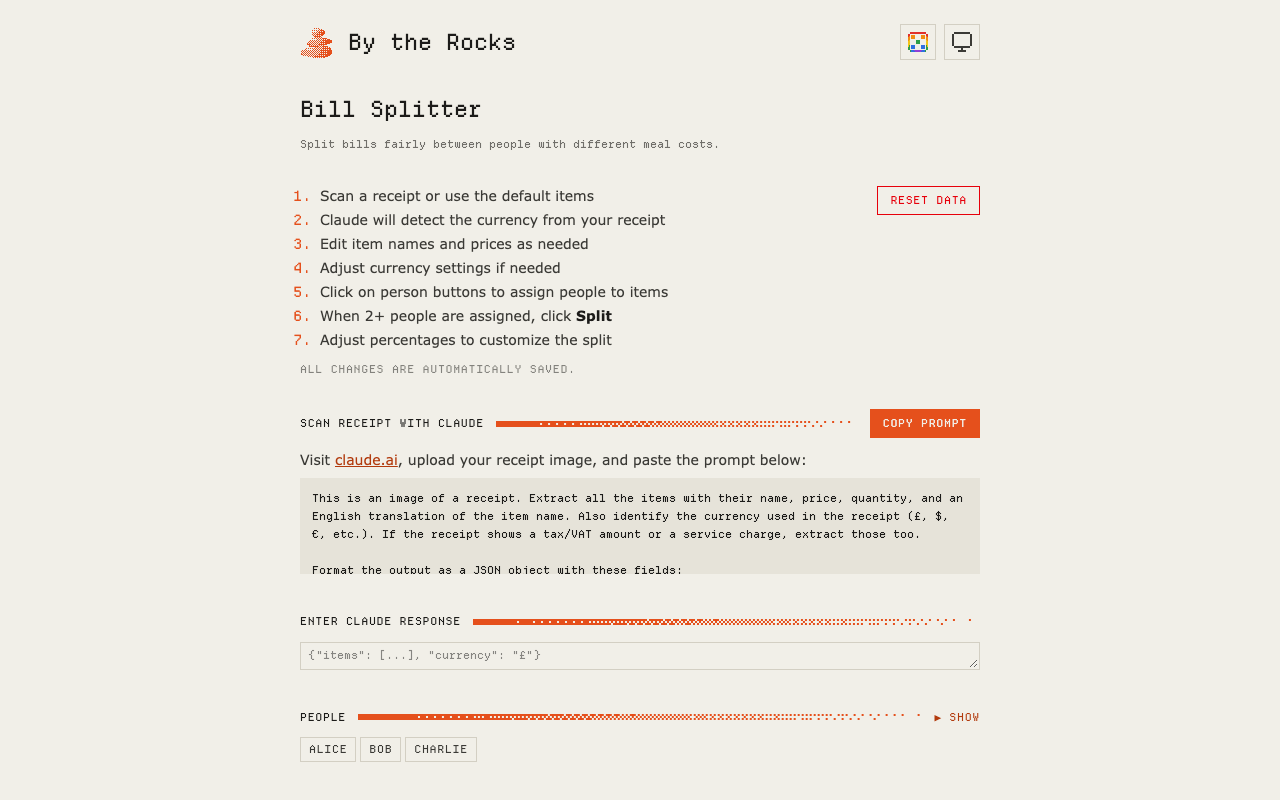
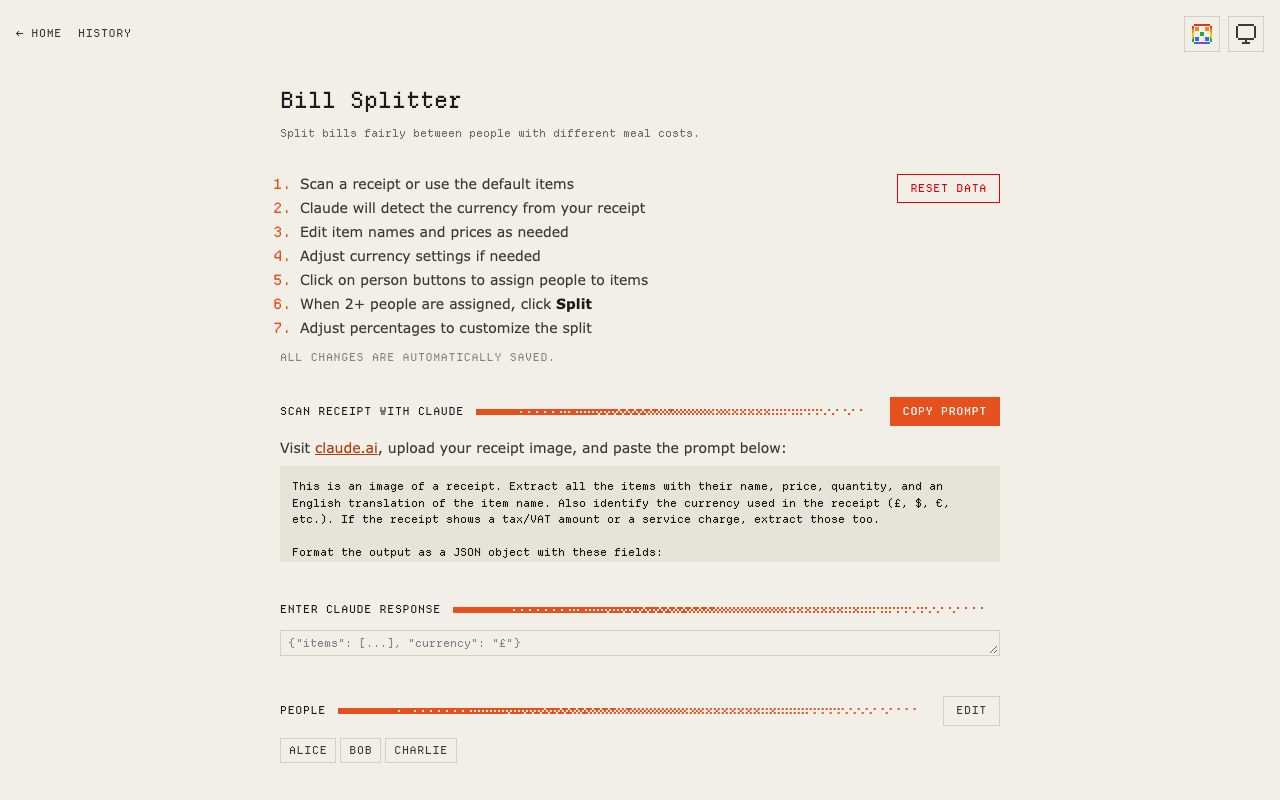
feat(bill): the Bill Splitter sits in PixelAppLayout, under an app bar instead of the site header
Inside the notes `Layout`, a tool page opened with the "By the Rocks" logo heading, which reads as a blog page and not as an app. `PixelAppLayout`, introduced for Tapblok, has the same theme with a slim bar instead: ← Home, History, the accent dice and the theme toggle.

- **The app sets its own 720px column, because `PixelAppLayout`'s body is full width**
  This keeps the measure the page had in `Layout`.

- **The title and subtitle are rendered by React, as they are in Tapblok**
  The layout has no slot for them above `#app`.

- **The rippled footer is gone**
  `PixelAppLayout` has none.

The front-page card screenshot is retaken with the app bar.

diff --git a/src/pages/bill/_app/app.jsx b/src/pages/bill/_app/app.jsx
@@ -265,7 +265,9 @@ Here's an example of the expected format with sample data:
   const allocationMatches = parseFloat(allocatedTotal) === parseFloat(billTotal);
 
   return (
-    <div className="text-text">
+    <div className="w-full max-w-[720px] mx-auto text-text">
+      <h1 className="page-title mt-4 mb-2">Bill Splitter</h1>
+      <p className="page-sub mt-0 mb-8">Split bills fairly between people with different meal costs.</p>
       <div className="flex flex-col sm:flex-row sm:justify-between sm:items-start gap-3 mb-8 text-sm">
         <div>
           <ol className="list-decimal marker:text-accent marker:font-pixel pl-5 space-y-1">
